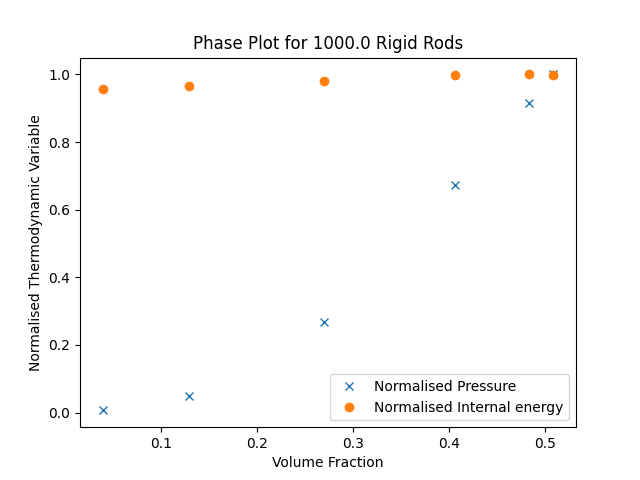
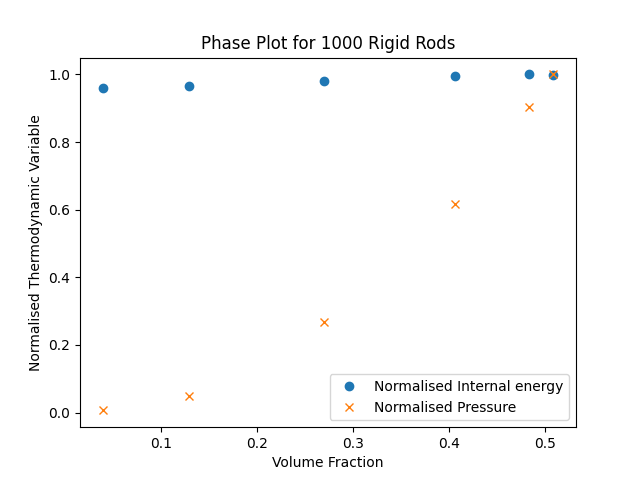
Addition of pressure plotting
Rolling average implemented

diff --git a/Phase_Structure/Rigid_Rods2/phase_plot.py b/Phase_Structure/Rigid_Rods2/phase_plot.py
@@ -1,5 +1,6 @@
 import numpy as np
 import matplotlib.pyplot as plt
+from scipy.ndimage import uniform_filter1d  # for rolling average
 
 loop_var_name = "mix_steps"  # user defined!
 
@@ -73,6 +74,7 @@ final_values = np.zeros(
 )  # in form Temp/Press/PotEng/Volume
 # These are the values at equillibrium. Currently output as mean values
 
+total_loop_var = 0
 for i in range(1, len(start_lines), 2):
     # taking every other i to only get equillibrium values; each N has a thermalisation and an equillibrium run
     j = int(
@@ -85,17 +87,24 @@ for i in range(1, len(start_lines), 2):
         skip_footer=last_line - end_lines_adj[i] + 1,
         comments=None,
     )
-    # print(start_lines[i], last_line - end_lines[i])
-    # print(data)
+
+    total_loop_var += loop_var_values[j]
     plt.plot(
         data["Step"] - np.min(data["Step"]),  # so time starts from zero
-        data["Press"],
-        label=loop_var_name + "= " + str(loop_var_values[j]),
+        # data["Press"],
+        uniform_filter1d(data["Press"], size=int(5e2)),  # rolling average
+        label=loop_var_name + "= " + str(int(total_loop_var)),
     )
+
+    end_index = int(len(data["Press"]))
+    start_index = int(0.9 * end_index)
+    # selecting only final 10% of data to average, so sys has reached equilibrium
+
     final_values[0, j] = loop_var_values[j]
-    final_values[1, j] = np.mean(data["Press"])
-    final_values[2, j] = np.mean(data["PotEng"])
-    final_values[3, j] = np.mean(data["Volume"])
+    final_values[1, j] = np.mean(data["Press"][start_index:end_index])
+    final_values[2, j] = np.mean(data["PotEng"][start_index:end_index])
+    final_values[3, j] = np.mean(data["Volume"][start_index:end_index])
+
 
 vol_frac = np.reciprocal(final_values[3, :]) * (10 * N * (np.pi / 4))
 print("Volume Fractions: " + str(vol_frac))
@@ -106,15 +115,9 @@ plt.xlabel("Time Step")
 plt.ylabel("Pressure (Natural Units)")
 plt.title("Evolution of Thermodynamic Variables at different " + loop_var_name)
 plt.legend()
+plt.savefig("pressureplot_frac.png")
 plt.show()
 
-plt.plot(
-    vol_frac,  # loop_var_values,
-    final_values[1, :] / np.amax(final_values[1, :]),
-    label="Normalised Pressure",
-    linestyle="",
-    marker="x",
-)
 plt.plot(
     vol_frac,  # loop_var_values,
     final_values[2, :] / np.amax(final_values[2, :]),
@@ -122,11 +125,19 @@ plt.plot(
     linestyle="",
     marker="o",
 )
+plt.plot(
+    vol_frac,  # loop_var_values,
+    final_values[1, :] / np.amax(final_values[1, :]),
+    label="Normalised Pressure",
+    linestyle="",
+    marker="x",
+)
+
 # plt.xlabel("Value of " + loop_var_name)
 plt.xlabel("Volume Fraction")
 plt.ylabel("Normalised Thermodynamic Variable")
 plt.legend()
-plt.title("Phase Plot for " + str(N) + " Rigid Rods")
+plt.title("Phase Plot for " + str(int(N)) + " Rigid Rods")
 plt.savefig("phaseplot_frac.png")
 plt.show()
 

diff --git a/Phase_Structure/Rigid_Rods2/nunchuck.py b/Phase_Structure/Rigid_Rods2/nunchuck.py
@@ -144,7 +144,7 @@ def plot_all(accepted, n_mol, box_lim):
     ax = fig.add_subplot(111, projection="3d")
     ax.scatter(x_list, y_list, z_list, c=cols, marker="o", s=350)
     ax.set_xlim(-box_lim, box_lim)
-    ax.set_ylim(-box_lim, box_lim)
+    ax.set_ylim(-box_lim, box_lim)  # change this to get oblong box
     ax.set_zlim(-box_lim, box_lim)
     ax.grid(False)
     ax.w_xaxis.set_pane_color((1.0, 1.0, 1.0, 1.0))
